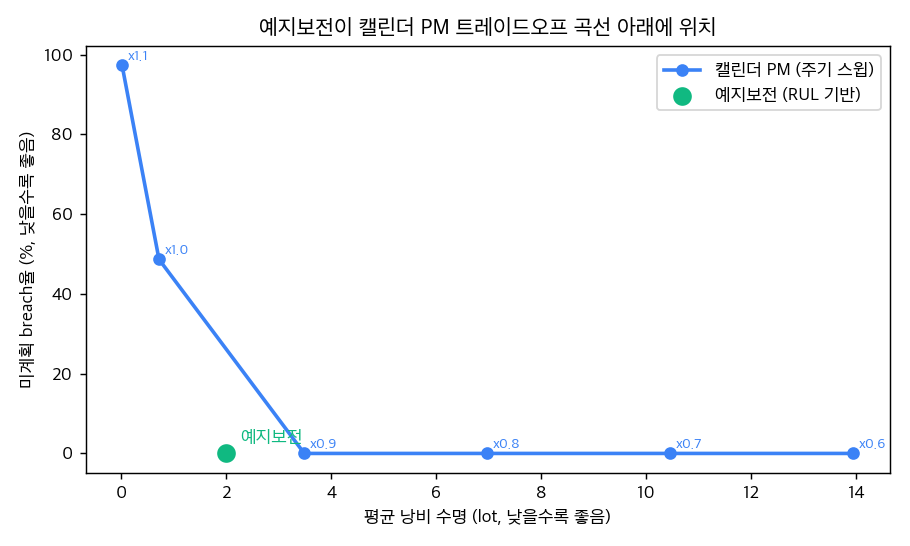
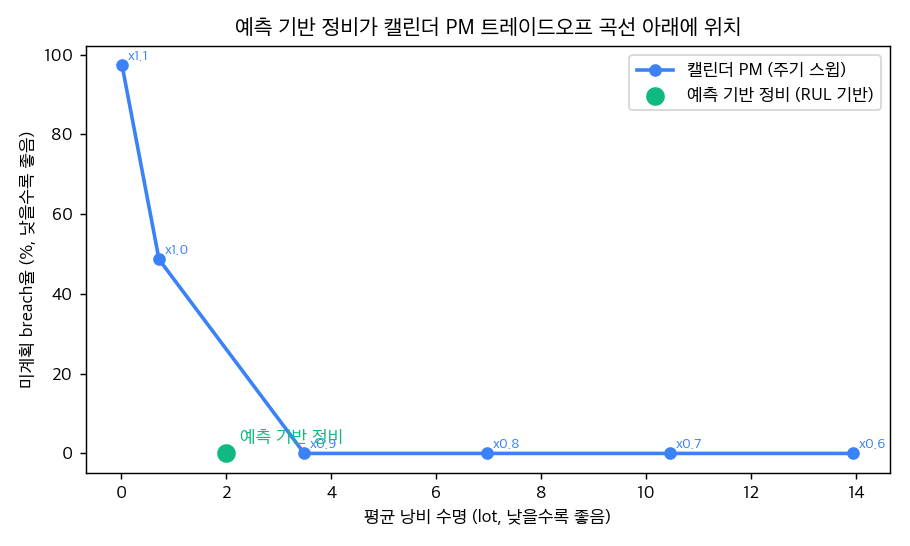
test(experiments): D14 예측 기반 정비 용어 통일 + 차트 재생성

Changed region(s): [[0.6769, 0.0934, 0.9538, 0.2179], [0.2462, 0.0311, 0.8308, 0.0623], [0.2462, 0.7784, 0.4, 0.8095]]

diff --git a/experiments/rul_eval/benchmark.py b/experiments/rul_eval/benchmark.py
@@ -1,10 +1,10 @@
-"""D14: RUL 예측 정확도 + 예지보전 vs 캘린더 PM
+"""D14: RUL 예측 정확도 + 예측 기반 정비 vs 캘린더 PM
 
 반응형에서 예측형으로의 전환 가치를 정량 평가한다
 - RUL 예측 정확도: MAE/RMSE + 프로그노스틱 표준 지표 α-λ accuracy
-- 예지보전(predictive PM) vs 캘린더 PM(현 fab 관행)의 트레이드오프
+- 예측 기반 정비(predictive PM) vs 캘린더 PM(현 fab 관행)의 트레이드오프
   캘린더 PM은 고정 주기라 '미계획 breach(너무 늦음)'와 '낭비 수명(너무 이름)' 중
-  하나를 택해야 한다. 예지보전은 두 축 모두 낮출 수 있다
+  하나를 택해야 한다. 예측 기반 정비는 두 축 모두 낮출 수 있다
 
 수명한계·열화율은 PHM 2016 CMP 실데이터에서 도출, RtF 궤적은 거기 보정된 합성
 (data/phm2016/consumables.py). seed 고정으로 100% 재현
@@ -32,7 +32,7 @@ CHARTS.mkdir(exist_ok=True)
 N_TRAJ_PER_CONSUMABLE = 50
 ALPHA = 0.2          # α-λ accuracy: |pred-true|/true <= 0.2
 MIN_HISTORY = 3      # 예측 시작 최소 이력 lot
-PRED_MARGIN = 2.0    # 예지보전 트리거: 예측 RUL <= 2 lot
+PRED_MARGIN = 2.0    # 예측 기반 정비 트리거: 예측 RUL <= 2 lot
 
 
 def _all_trajectories():
@@ -79,10 +79,10 @@ def eval_accuracy(trajectories):
 
 
 def eval_pm_policies(trajectories):
-    """예지보전 vs 캘린더 PM의 (breach율, 평균 낭비수명)
+    """예측 기반 정비 vs 캘린더 PM의 (breach율, 평균 낭비수명)
 
     캘린더 PM은 소모품별 평균수명 × 안전계수를 고정 주기로 사용(현실적 운영)
-    그래도 lot별 수명 분산 탓에 breach 또는 낭비가 남는다. 예지보전은 궤적마다 적응
+    그래도 lot별 수명 분산 탓에 breach 또는 낭비가 남는다. 예측 기반 정비는 궤적마다 적응
     """
     import statistics
     n = len(trajectories)
@@ -93,7 +93,7 @@ def eval_pm_policies(trajectories):
         lives_by_c.setdefault(cid, []).append(len(traj))
     mean_life_by_c = {c: statistics.mean(v) for c, v in lives_by_c.items()}
 
-    # 예지보전: 예측 RUL <= margin 되는 첫 시점에 PM
+    # 예측 기반 정비: 예측 RUL <= margin 되는 첫 시점에 PM
     pred_breaches = pred_wasted = 0
     for cid, traj in trajectories:
         T = len(traj)
@@ -160,13 +160,13 @@ def chart_pm_tradeoff(pm, path):
                     fontsize=8, color="#3b82f6", xytext=(3, 3), textcoords="offset points")
     p = pm["predictive"]
     ax.scatter([p["avg_wasted"]], [p["breach_rate"] * 100], color="#10b981", s=140,
-               zorder=5, label="예지보전 (RUL 기반)", edgecolors="white", linewidths=1.5)
-    ax.annotate("예지보전", (p["avg_wasted"], p["breach_rate"] * 100),
+               zorder=5, label="예측 기반 정비 (RUL 기반)", edgecolors="white", linewidths=1.5)
+    ax.annotate("예측 기반 정비", (p["avg_wasted"], p["breach_rate"] * 100),
                 fontsize=10, fontweight="bold", color="#10b981",
                 xytext=(8, 6), textcoords="offset points")
     ax.set_xlabel("평균 낭비 수명 (lot, 낮을수록 좋음)")
     ax.set_ylabel("미계획 breach율 (%, 낮을수록 좋음)")
-    ax.set_title("예지보전이 캘린더 PM 트레이드오프 곡선 아래에 위치", fontweight="bold")
+    ax.set_title("예측 기반 정비가 캘린더 PM 트레이드오프 곡선 아래에 위치", fontweight="bold")
     ax.legend()
     fig.tight_layout()
     fig.savefig(path, dpi=130)
@@ -183,7 +183,7 @@ def write_results(acc, pm):
     waste_cut = safe_cal["avg_wasted"] - p["avg_wasted"]
 
     lines = []
-    lines.append("# D14: RUL 예측 + 예지보전 vs 캘린더 PM")
+    lines.append("# D14: RUL 예측 + 예측 기반 정비 vs 캘린더 PM")
     lines.append("")
     lines.append("반응형에서 예측형으로의 전환 가치를 정량 평가합니다. 소모품 마모 추세를")
     lines.append("외삽해 잔여수명(RUL)을 예측하고, 고정 주기 캘린더 PM(현 fab 관행) 대비")
@@ -194,7 +194,7 @@ def write_results(acc, pm):
     lines.append(f"- 소모품 3종(연마 패드·드레서·멤브레인) × RtF 궤적 {N_TRAJ_PER_CONSUMABLE}개 = "
                  f"{3*N_TRAJ_PER_CONSUMABLE}개")
     lines.append("- 수명한계·MRR 열화율은 PHM 2016 CMP 실데이터에서 도출, 궤적은 거기 보정된 합성")
-    lines.append(f"- 예지보전 트리거: 예측 RUL ≤ {PRED_MARGIN:.0f} lot, 캘린더 PM: 고정 주기 스윕")
+    lines.append(f"- 예측 기반 정비 트리거: 예측 RUL ≤ {PRED_MARGIN:.0f} lot, 캘린더 PM: 고정 주기 스윕")
     lines.append("")
     lines.append("## 1. RUL 예측 정확도")
     lines.append("")
@@ -210,11 +210,11 @@ def write_results(acc, pm):
     lines.append("")
     lines.append("생애 후반으로 갈수록 오차가 줄어, breach 임박 시점에서 정확도가 가장 높습니다.")
     lines.append("")
-    lines.append("## 2. 예지보전 vs 캘린더 PM")
+    lines.append("## 2. 예측 기반 정비 vs 캘린더 PM")
     lines.append("")
     lines.append("| 정책 | 미계획 breach율 | 평균 낭비 수명 |")
     lines.append("|---|---|---|")
-    lines.append(f"| **예지보전 (RUL 기반)** | **{p['breach_rate']:.0%}** | **{p['avg_wasted']:.1f} lot** |")
+    lines.append(f"| **예측 기반 정비 (RUL 기반)** | **{p['breach_rate']:.0%}** | **{p['avg_wasted']:.1f} lot** |")
     for c in pm["calendar"]:
         lines.append(f"| 캘린더 PM (주기 x{c['safety']:.1f}) | {c['breach_rate']:.0%} | {c['avg_wasted']:.1f} lot |")
     lines.append("")
@@ -225,7 +225,7 @@ def write_results(acc, pm):
     lines.append(f"- RUL을 MAE {acc['mae']:.2f} lot, α-λ {acc['alpha_acc']:.0%}로 예측 "
                  f"(편향 {acc['bias']:+.2f} lot으로 약간 보수적, breach보다 조기 PM 선호)")
     lines.append(f"- 캘린더 PM은 breach를 줄이려면 수명을 낭비하고, 수명을 살리려면 breach가 늘어남")
-    lines.append(f"- 예지보전은 breach {p['breach_rate']:.0%} · 낭비 {p['avg_wasted']:.1f}lot으로 "
+    lines.append(f"- 예측 기반 정비는 breach {p['breach_rate']:.0%} · 낭비 {p['avg_wasted']:.1f}lot으로 "
                  f"트레이드오프 곡선 아래에 위치 (동일 안전수준 캘린더 대비 낭비 수명 {waste_cut:.1f}lot 절감)")
     lines.append("- RUL·열화율·신뢰구간을 모두 노출해 PM 시점 결정을 감사 가능")
     (HERE / "results.md").write_text("\n".join(lines), encoding="utf-8")
@@ -241,7 +241,7 @@ def main():
     p = pm["predictive"]
     print(f"궤적 {len(trajectories)}개, 예측 시점 {acc['n_pred']:,}")
     print(f"RUL MAE {acc['mae']:.2f}lot, RMSE {acc['rmse']:.2f}, α-λ {acc['alpha_acc']:.0%}, 편향 {acc['bias']:+.2f}")
-    print(f"예지보전: breach {p['breach_rate']:.0%}, 낭비수명 {p['avg_wasted']:.1f}lot")
+    print(f"예측 기반 정비: breach {p['breach_rate']:.0%}, 낭비수명 {p['avg_wasted']:.1f}lot")
     print("-> results.md + charts 작성 완료")
 
 

diff --git a/experiments/rul_eval/results.md b/experiments/rul_eval/results.md
@@ -1,4 +1,4 @@
-# D14: RUL 예측 + 예지보전 vs 캘린더 PM
+# D14: RUL 예측 + 예측 기반 정비 vs 캘린더 PM
 
 반응형에서 예측형으로의 전환 가치를 정량 평가합니다. 소모품 마모 추세를
 외삽해 잔여수명(RUL)을 예측하고, 고정 주기 캘린더 PM(현 fab 관행) 대비
@@ -8,7 +8,7 @@
 
 - 소모품 3종(연마 패드·드레서·멤브레인) × RtF 궤적 50개 = 150개
 - 수명한계·MRR 열화율은 PHM 2016 CMP 실데이터에서 도출, 궤적은 거기 보정된 합성
-- 예지보전 트리거: 예측 RUL ≤ 2 lot, 캘린더 PM: 고정 주기 스윕
+- 예측 기반 정비 트리거: 예측 RUL ≤ 2 lot, 캘린더 PM: 고정 주기 스윕
 
 ## 1. RUL 예측 정확도
 
@@ -24,11 +24,11 @@
 
 생애 후반으로 갈수록 오차가 줄어, breach 임박 시점에서 정확도가 가장 높습니다.
 
-## 2. 예지보전 vs 캘린더 PM
+## 2. 예측 기반 정비 vs 캘린더 PM
 
 | 정책 | 미계획 breach율 | 평균 낭비 수명 |
 |---|---|---|
-| **예지보전 (RUL 기반)** | **0%** | **2.0 lot** |
+| **예측 기반 정비 (RUL 기반)** | **0%** | **2.0 lot** |
 | 캘린더 PM (주기 x0.6) | 0% | 13.9 lot |
 | 캘린더 PM (주기 x0.7) | 0% | 10.5 lot |
 | 캘린더 PM (주기 x0.8) | 0% | 7.0 lot |
@@ -42,5 +42,5 @@
 
 - RUL을 MAE 1.43 lot, α-λ 92%로 예측 (편향 -0.19 lot으로 약간 보수적, breach보다 조기 PM 선호)
 - 캘린더 PM은 breach를 줄이려면 수명을 낭비하고, 수명을 살리려면 breach가 늘어남
-- 예지보전은 breach 0% · 낭비 2.0lot으로 트레이드오프 곡선 아래에 위치 (동일 안전수준 캘린더 대비 낭비 수명 1.5lot 절감)
+- 예측 기반 정비는 breach 0% · 낭비 2.0lot으로 트레이드오프 곡선 아래에 위치 (동일 안전수준 캘린더 대비 낭비 수명 1.5lot 절감)
 - RUL·열화율·신뢰구간을 모두 노출해 PM 시점 결정을 감사 가능

diff --git a/experiments/README.md b/experiments/README.md
@@ -19,7 +19,7 @@
 | **D11** | Conductor (Plan-and-Execute) vs Autonomous | 4 LLM call vs 10 LLM call | **Conductor 채택** (속도·비용 우위, 품질 동등) | [conductor_vs_autonomous/results.md](conductor_vs_autonomous/results.md) |
 | **D12** | Tier 0 트리아지 + 커몬낼리티 엔진 | 알람 폭주 압축 · 커몬낼리티 vs sigma baseline | **압축 132x · nuisance 98% 억제 · commonality hit@1 3/3** | [triage_eval/results.md](triage_eval/results.md) |
 | **D13** | 리스크 정량 디스포지션 | 비용엔진 vs naive(항상 보류/진행/폐기) | **oracle 84% 일치 · 이론상한 +2.0% · naive 대비 최대 $49M 절감** | [disposition_eval/results.md](disposition_eval/results.md) |
-| **D14** | 예측형 RUL (PHM 2016) | 예지보전 vs 캘린더 PM | **RUL MAE 1.43 lot · α-λ 92% · breach 0%로 낭비수명 최소** | [rul_eval/results.md](rul_eval/results.md) |
+| **D14** | 예측형 RUL (PHM 2016) | 예측 기반 정비 vs 캘린더 PM | **RUL MAE 1.43 lot · α-λ 92% · breach 0%로 낭비수명 최소** | [rul_eval/results.md](rul_eval/results.md) |
 | **D15** | 신뢰도 캘리브레이션 | raw vs isotonic 보정 ECE | **ECE 0.427 → 0.001 (-100%)** | [calibration_eval/results.md](calibration_eval/results.md) |
 | **D16** | 운영자 결정 자가학습 루프 | 인시던트 기록 전/후 retrieval | **hit@3 0% → 80% (운영자 지식 즉시 반영)** | [learning_eval/results.md](learning_eval/results.md) |
 
